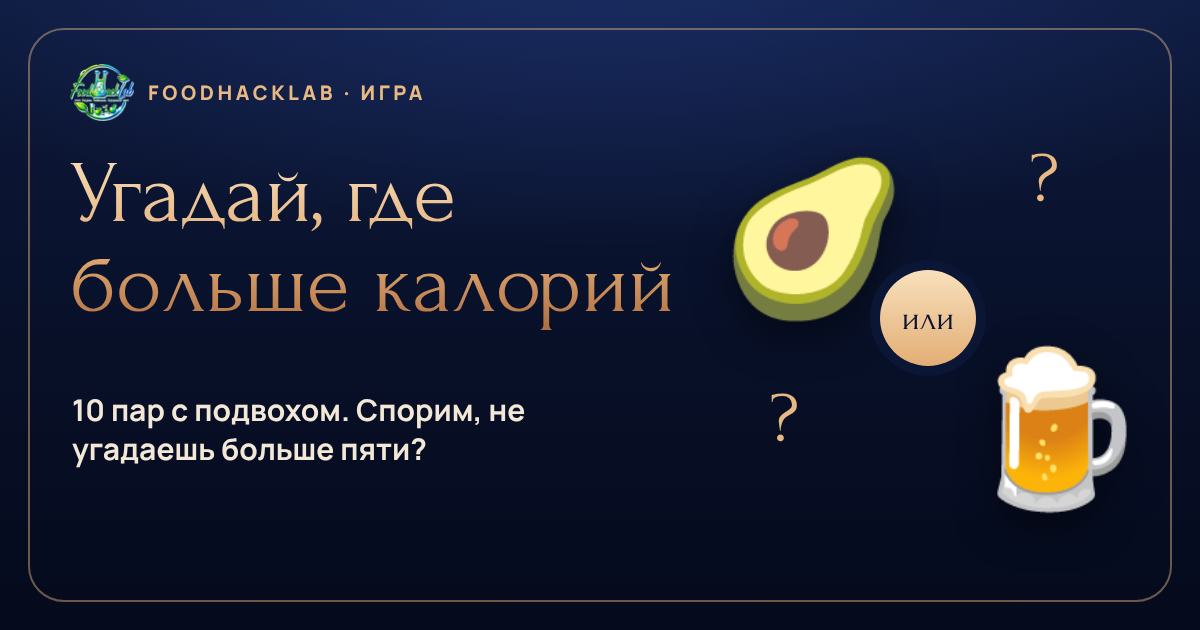
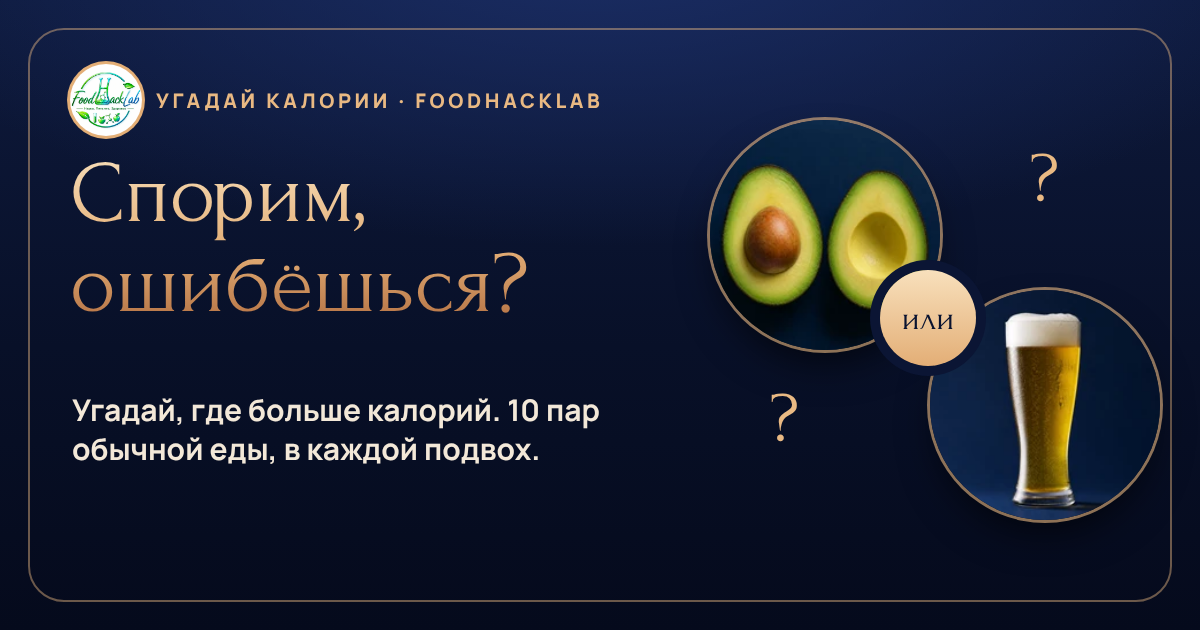
Фото для всех 20 продуктов и заголовок «Спорим, ошибёшься?»
Реалистичные фото вместо смайликов во всех карточках, на стартовом
экране, в картинке для сторис и в превью ссылки.

Claude-Session: https://claude.ai/code/session_01X9BYRhxD9B6uD4tJz2gB84

diff --git a/ugaday/index.html b/ugaday/index.html
@@ -11,7 +11,7 @@
 <meta property="og:image:width" content="1200">
 <meta property="og:image:height" content="630">
 <meta property="og:site_name" content="FoodHackLab">
-<meta property="og:title" content="Угадай, где больше калорий">
+<meta property="og:title" content="Спорим, ошибёшься? Угадай, где больше калорий">
 <meta property="og:description" content="10 пар еды, в которых подвох. Спорим, не угадаешь больше 5 из 10?">
 <meta name="twitter:card" content="summary_large_image">
 <meta name="theme-color" content="#081028">
@@ -61,7 +61,8 @@ h2{font:400 clamp(26px,7.4vw,34px)/1.1 var(--f-display);margin:0;text-wrap:balan
 /* intro */
 .intro{display:flex;flex-direction:column;gap:18px;flex:1;justify-content:center}
 .teaser{display:grid;grid-template-columns:1fr auto 1fr;align-items:center;gap:10px;text-align:center}
-.teaser .em{font-size:64px;line-height:1;animation:bob 2.4s ease-in-out infinite}
+.teaser .em{width:min(130px,34vw);aspect-ratio:1;border-radius:50%;object-fit:cover;-webkit-mask:radial-gradient(closest-side,#000 70%,transparent 100%);mask:radial-gradient(closest-side,#000 70%,transparent 100%);justify-self:center;animation:bob 2.4s ease-in-out infinite}
+.teaser{grid-template-columns:1fr auto 1fr}
 .teaser .em:last-child{animation-delay:-1.2s}
 .teaser .vs{font:400 28px var(--f-display);color:var(--gold)}
 @keyframes bob{0%,100%{transform:translateY(0) rotate(-4deg)}50%{transform:translateY(-8px) rotate(4deg)}}
@@ -136,15 +137,15 @@ h2{font:400 clamp(26px,7.4vw,34px)/1.1 var(--f-display);margin:0;text-wrap:balan
 <main class="wrap">
   <header class="top">
     <img src="logo.webp" alt="FoodHackLab">
-    <div class="eyebrow">Игра · FoodHackLab</div>
+    <div class="eyebrow">Угадай калории · FoodHackLab</div>
   </header>
 
   <!-- INTRO -->
   <section id="intro" class="intro">
-    <div class="teaser" aria-hidden="true"><span class="em">🥑</span><span class="vs">или</span><span class="em">🥚</span></div>
+    <div class="teaser" aria-hidden="true"><img class="em ph" src="img/avocado.webp" alt=""><span class="vs">или</span><img class="em ph" src="img/eggs.webp" alt=""></div>
     <div id="challenge" class="challenge" hidden></div>
-    <h1 class="gold-text">Угадай, где больше калорий</h1>
-    <p class="sub">10 пар еды. В каждой прячется подвох. Спорим, не угадаешь больше пяти?</p>
+    <h1 class="gold-text">Спорим, ошибёшься?</h1>
+    <p class="sub">Выбери, где больше калорий. 10 пар обычной еды, и в каждой подвох. Проверь себя, а потом друзей.</p>
     <ul class="rules">
       <li>Нажми на то, что, по-твоему, калорийнее</li>
       <li>Порции указаны честно, в граммах или штуках</li>
@@ -193,21 +194,21 @@ const ROUNDS = [
    q:'Ложка к ложке', f:'Мёд тяжелее: в ложку его входит 21 г, а сахара всего 12,5 г. Поэтому ложка мёда калорийнее.'},
   {a:{e:'🍊',img:'oj',n:'Апельсиновый сок',p:'стакан, 240 мл',k:112}, b:{e:'🥤',img:'cola',n:'Кола',p:'стакан, 240 мл',k:103},
    q:'Полезный сок или сладкая газировка?', f:'Почти поровну, и сок даже чуть впереди. В обоих калории дают в основном сахара.'},
-  {a:{e:'🍘',n:'Ржаные хлебцы',p:'100 г',k:366}, b:{e:'🍞',n:'Ржаной хлеб',p:'100 г',k:259},
+  {a:{e:'🍘',img:'crisp',n:'Ржаные хлебцы',p:'100 г',k:366}, b:{e:'🍞',img:'rye',n:'Ржаной хлеб',p:'100 г',k:259},
    q:'Диетические хлебцы против хлеба', f:'В хлебцах почти нет воды, поэтому грамм хлебцев калорийнее грамма хлеба. Зато хлебец весит намного меньше куска, и по штукам он легче.'},
-  {a:{e:'🫒',n:'Оливковое масло',p:'1 столовая ложка',k:119}, b:{e:'🍌',n:'Банан',p:'1 средний',k:105},
+  {a:{e:'🫒',img:'oil',n:'Оливковое масло',p:'1 столовая ложка',k:119}, b:{e:'🍌',img:'banana',n:'Банан',p:'1 средний',k:105},
    q:'Ложка масла против целого банана', f:'Одна ложка масла в салате — это как съесть сверху ещё банан. А льют обычно не одну.'},
-  {a:{e:'🌰',n:'Грецкие орехи',p:'горсть, 50 г',k:327}, b:{e:'🍫',n:'Молочный шоколад',p:'полплитки, 50 г',k:268},
+  {a:{e:'🌰',img:'walnut',n:'Грецкие орехи',p:'горсть, 50 г',k:327}, b:{e:'🍫',img:'choc',n:'Молочный шоколад',p:'полплитки, 50 г',k:268},
    q:'Полезный перекус против сладкого', f:'Орехи полезные, но не лёгкие: 654 ккал на 100 г. Горсть калорийнее полплитки шоколада.'},
-  {a:{e:'🍉',n:'Арбуз',p:'1 кг мякоти',k:300}, b:{e:'🍦',n:'Ванильное мороженое',p:'100 г',k:207},
+  {a:{e:'🍉',img:'melon',n:'Арбуз',p:'1 кг мякоти',k:300}, b:{e:'🍦',img:'icecream',n:'Ванильное мороженое',p:'100 г',k:207},
    q:'Вода с сахаром против десерта', f:'Арбуз почти весь из воды, но килограмм съедается за вечер незаметно. И выходит больше, чем мороженое.'},
-  {a:{e:'🌴',n:'Финики',p:'5 крупных штук',k:330}, b:{e:'🥤',n:'Кола',p:'бутылка 0,5 л',k:215},
+  {a:{e:'🌴',img:'dates',n:'Финики',p:'5 крупных штук',k:330}, b:{e:'🥤',img:'bottle',n:'Кола',p:'бутылка 0,5 л',k:215},
    q:'Натуральная сладость против газировки', f:'Пять фиников — это как полторы бутылки колы по калориям.'},
-  {a:{e:'🌻',n:'Семечки',p:'100 г очищенных',k:584}, b:{e:'🥖',n:'Белый хлеб',p:'полбатона, 200 г',k:532},
+  {a:{e:'🌻',img:'seeds',n:'Семечки',p:'100 г очищенных',k:584}, b:{e:'🥖',img:'bread',n:'Белый хлеб',p:'полбатона, 200 г',k:532},
    q:'Под сериал против полбатона', f:'Сто граммов семечек под сериал — это больше, чем полбатона белого хлеба.'},
-  {a:{e:'🥑',n:'Авокадо',p:'1 штука без косточки',k:227}, b:{e:'🥚',n:'Яйца варёные',p:'2 штуки',k:156},
+  {a:{e:'🥑',img:'avocado',n:'Авокадо',p:'1 штука без косточки',k:227}, b:{e:'🥚',img:'eggs',n:'Яйца варёные',p:'2 штуки',k:156},
    q:'Суперфуд против завтрака', f:'Одно авокадо почти равно трём варёным яйцам: в нём около 21 г жира.'},
-  {a:{e:'🍺',n:'Пиво',p:'0,5 л',k:215}, b:{e:'🍗',img:'chicken',n:'Куриная грудка',p:'запечённая, 100 г',k:165},
+  {a:{e:'🍺',img:'beer',n:'Пиво',p:'0,5 л',k:215}, b:{e:'🍗',img:'chicken',n:'Куриная грудка',p:'запечённая, 100 г',k:165},
    q:'Финал. Пол-литра против грудки', f:'В пол-литре пива калорий больше, чем в куске куриной грудки. И это ещё без закуски.'},
 ];
 const TITLES = [
@@ -331,11 +332,16 @@ async function storyImage(){
   const gold=(y0,y1)=>{const gg=x.createLinearGradient(0,y0,0,y1);gg.addColorStop(0,'#F8E0BC');gg.addColorStop(.55,'#E3AE76');gg.addColorStop(1,'#B06D40');return gg;};
   x.strokeStyle='rgba(233,185,131,.5)'; x.lineWidth=3; roundRect(x,70,70,W-140,H-140,60); x.stroke();
   x.textAlign='center';
-  x.fillStyle='#E9B983'; x.font='700 34px Manrope, sans-serif'; x.fillText('FOODHACKLAB · ИГРА',W/2,200);
+  x.fillStyle='#E9B983'; x.font='700 34px Manrope, sans-serif'; x.fillText('УГАДАЙ КАЛОРИИ · FOODHACKLAB',W/2,200);
   x.fillStyle=gold(250,420); x.font='400 96px Forum, Georgia, serif';
-  x.fillText('Угадай,',W/2,330); x.fillText('где больше калорий',W/2,440);
-  x.font='160px serif'; x.fillText('🥑',W/2-200,720); x.fillText('🍺',W/2+200,720);
-  x.fillStyle='#E9B983'; x.font='400 60px Forum, Georgia, serif'; x.fillText('или',W/2,690);
+  x.fillText('Спорим,',W/2,330); x.fillText('ошибёшься?',W/2,440);
+  const load=src=>new Promise(r=>{const im=new Image();im.onload=()=>r(im);im.onerror=()=>r(null);im.src=src;});
+  const [i1,i2]=await Promise.all([load('img/avocado.webp'),load('img/beer.webp')]);
+  for (const [im,cx] of [[i1,W/2-230],[i2,W/2+230]]) if (im) {
+    x.save(); x.beginPath(); x.arc(cx,640,150,0,7); x.clip(); x.drawImage(im,cx-150,490,300,300); x.restore();
+    x.strokeStyle='rgba(233,185,131,.6)'; x.lineWidth=4; x.beginPath(); x.arc(cx,640,152,0,7); x.stroke();
+  }
+  x.fillStyle='#E9B983'; x.font='400 60px Forum, Georgia, serif'; x.fillText('или',W/2,660);
   x.fillStyle=gold(820,1180); x.font='400 380px Forum, Georgia, serif'; x.fillText(String(score),W/2,1150);
   x.fillStyle='#A9B0C9'; x.font='700 44px Manrope, sans-serif'; x.fillText('И З   1 0',W/2,1240);
   const t=TITLES.find(([a,b])=>score>=a&&score<=b)[2];
